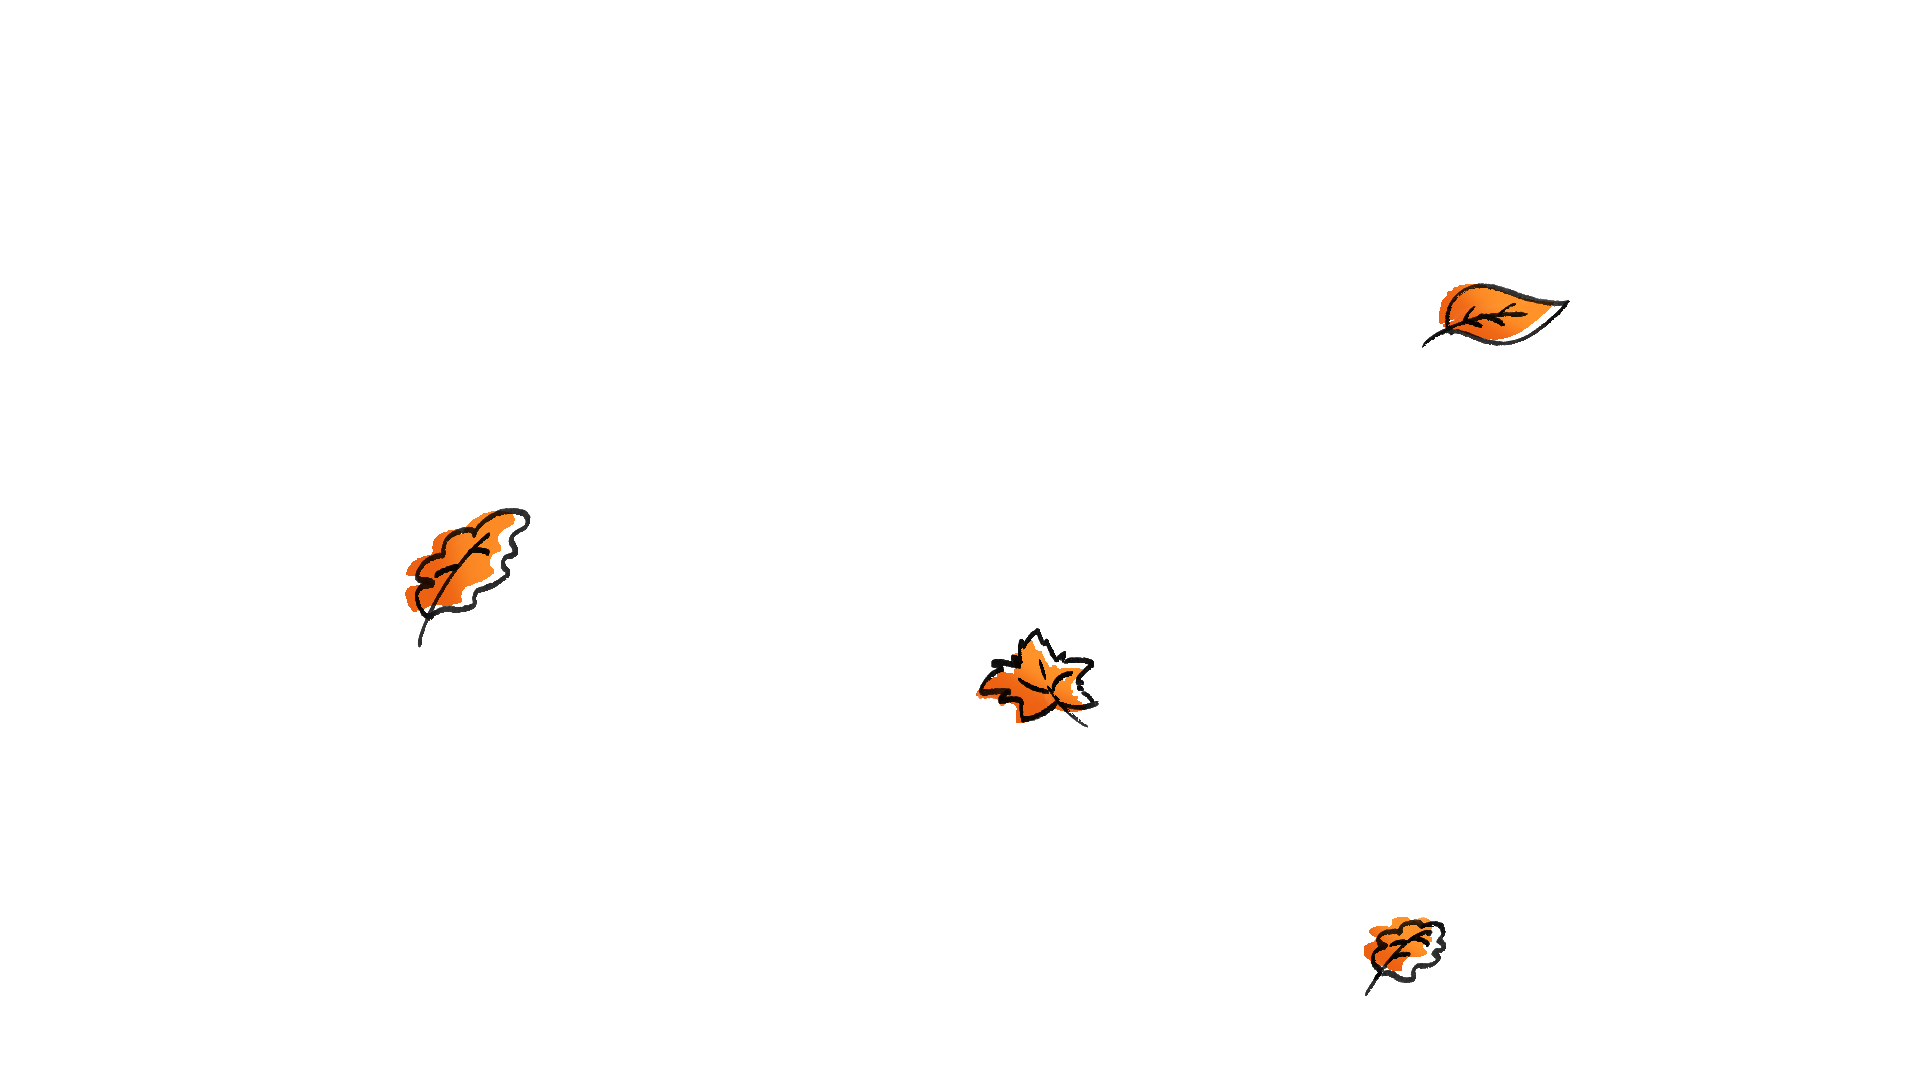
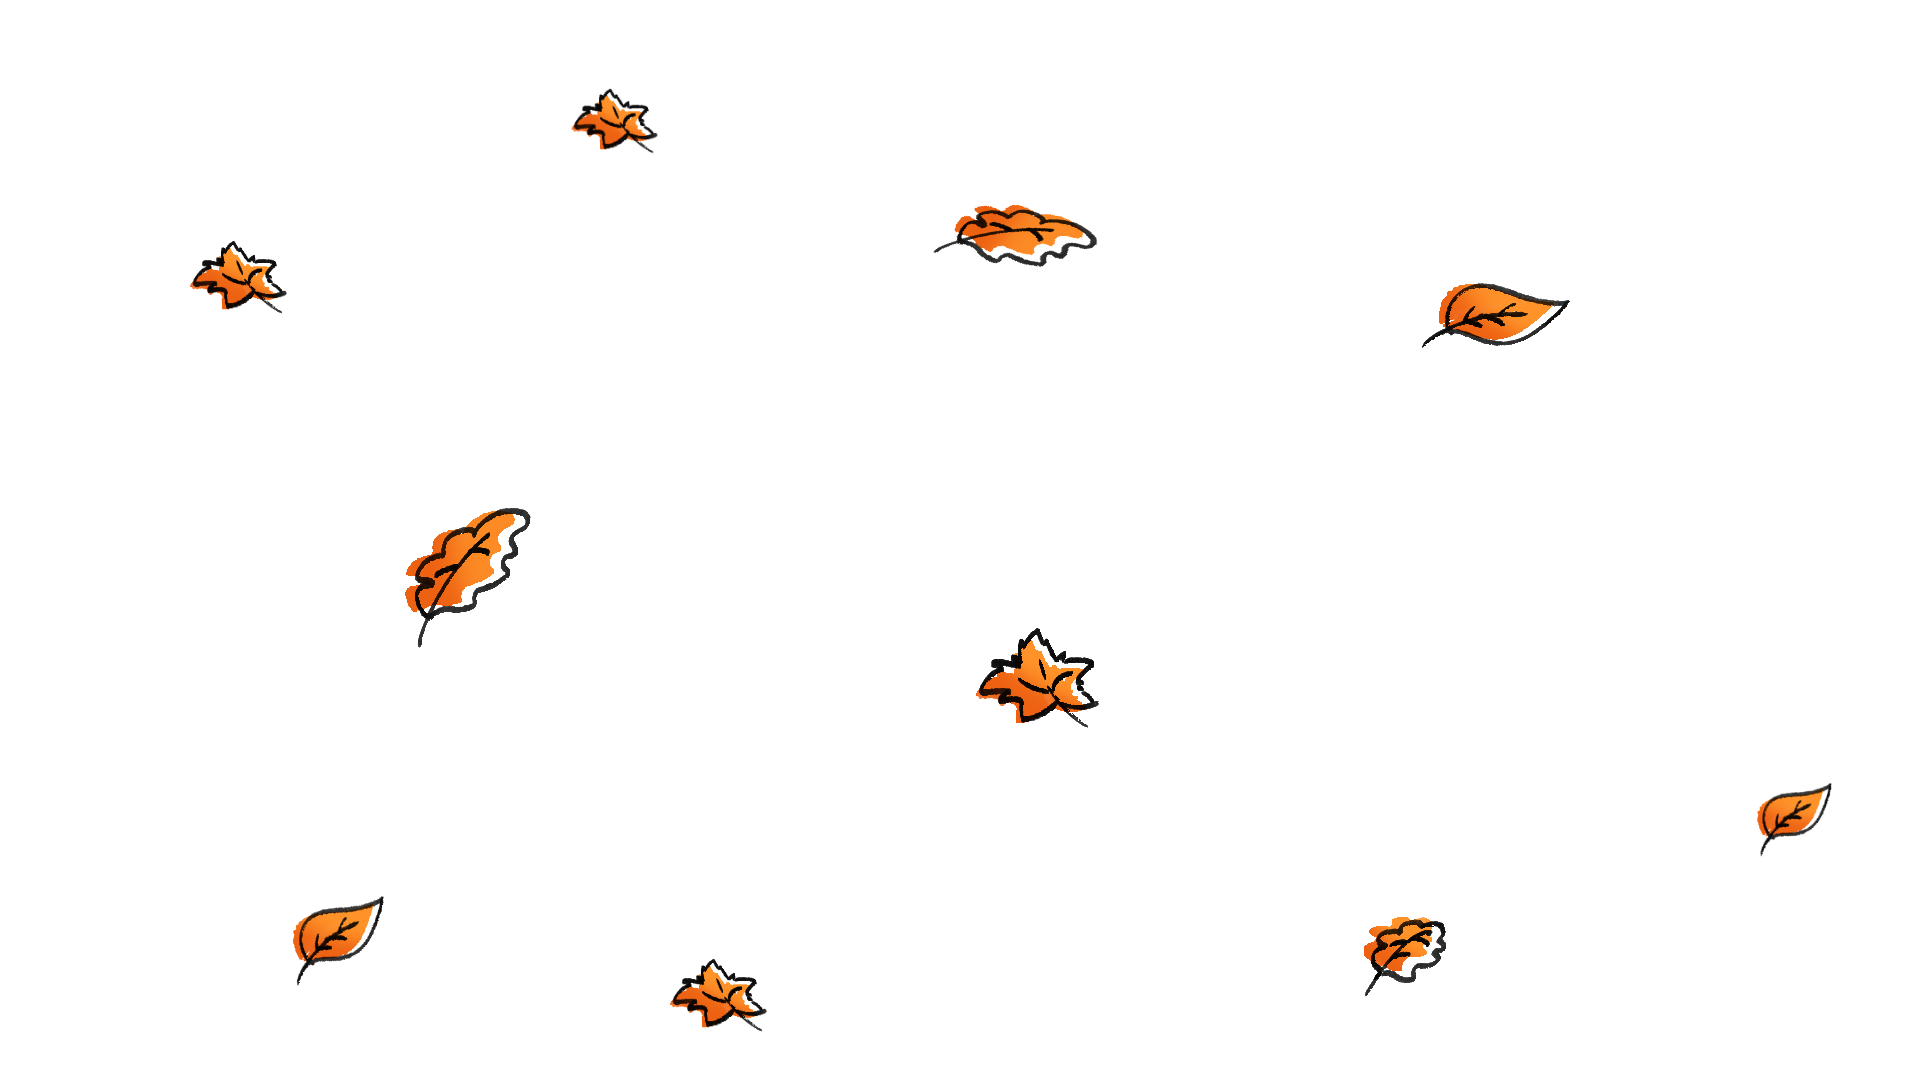
Update base background: combine background image assets into one image

diff --git a/static/css/base/base.css b/static/css/base/base.css
@@ -13,7 +13,7 @@ html, body{
 
 body{
     padding: 2.4rem;
-    background-image: url('../../images/background/light-olive-circle.svg'), url('../../images/background/dark-green-circle.svg'), url('../../images/background/leaves.PNG');
+    background-image: url('../../images/background/background.svg');
     background-position: -3% 100%, 100% 0%;
     background-repeat: no-repeat, no-repeat;
     background-color: var(--background);
